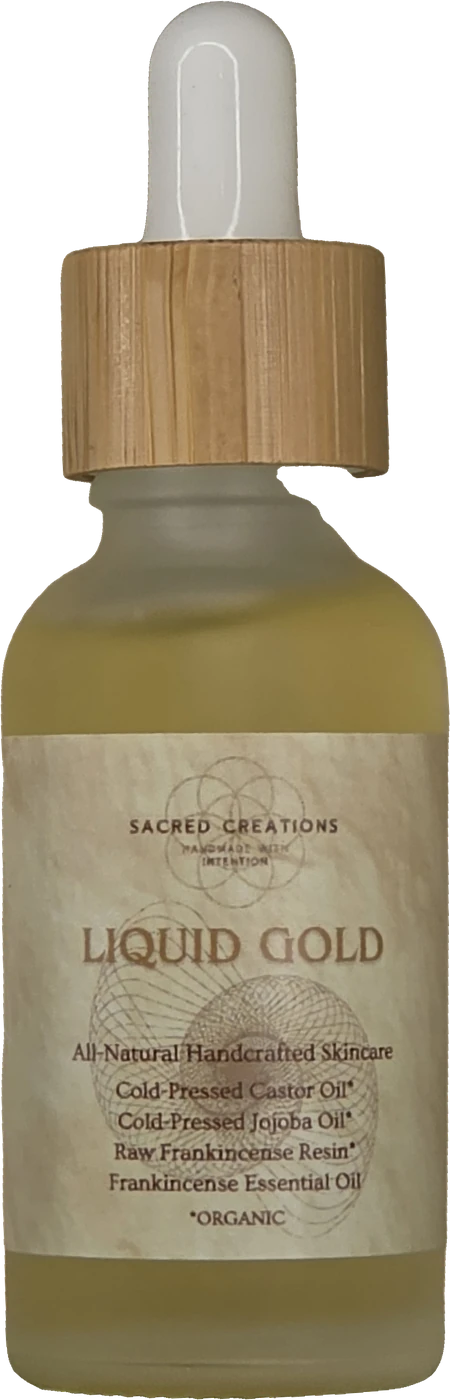
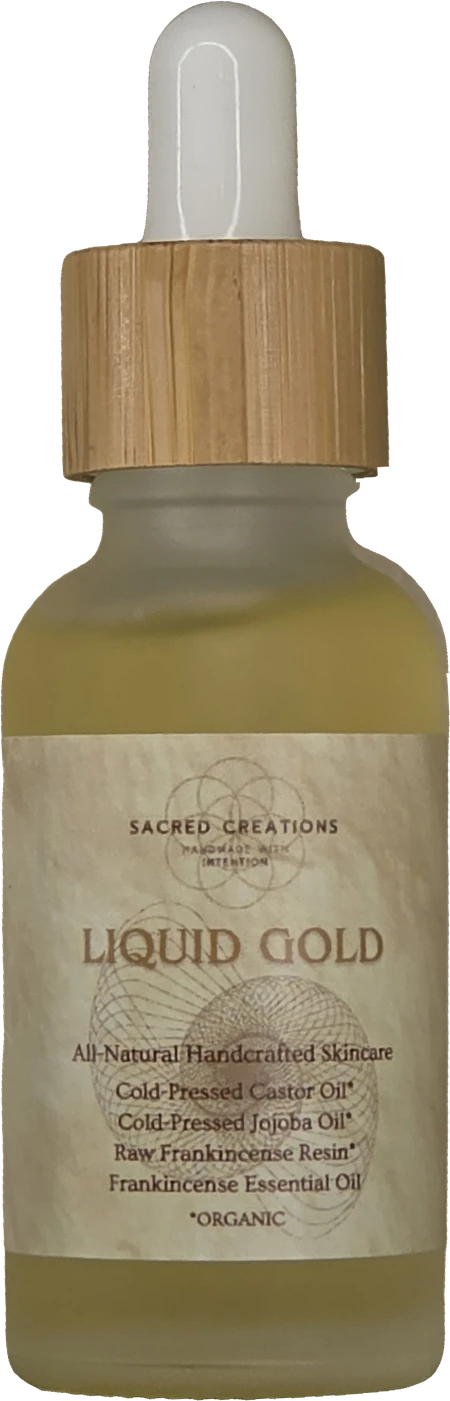
Shelf bottle: restore the glass neck under the cap
The background cutout had erased part of the frosted glass neck, leaving a
gap between the cap and the bottle. The neck is rebuilt from the original
photo, mirrored from its intact side, in both the site and the theme.

Claude-Session: https://claude.ai/code/session_01WmGr7QLLCLSmy45GpBi3JL

Changed region(s): [[0.6222, 0.3071, 0.9956, 0.4914], [0.84, 0.3071, 0.8711, 0.3379]]

diff --git a/components/sections.tsx b/components/sections.tsx
@@ -34,8 +34,8 @@ export function ShopWall() {
             <Image
               src="/images/bottle-front.webp"
               alt="Liquid Gold in frosted glass with a bamboo dropper. The label reads Sacred Creations, Liquid Gold, all-natural handcrafted skincare, and lists cold-pressed castor oil, cold-pressed jojoba oil, raw frankincense resin and frankincense essential oil."
-              width={450}
-              height={1400}
+              width={900}
+              height={2802}
               sizes="(min-width: 640px) 170px, 130px"
               className="relative h-[min(44svh,400px)] w-auto drop-shadow-[0_14px_14px_rgba(50,25,10,0.35)] sm:h-[min(58svh,520px)]"
             />
